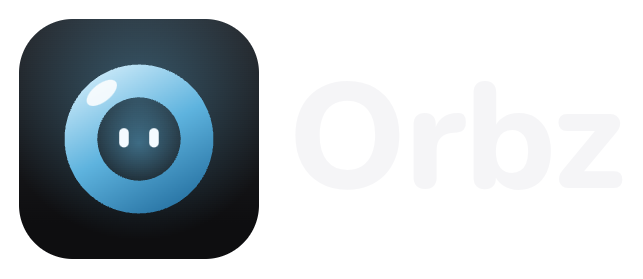
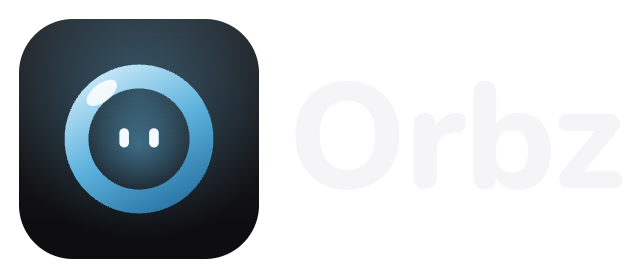
Thin the O in the Orbz mark

Changed region(s): [[0.1244, 0.3154, 0.311, 0.6882]]

diff --git a/packages/app/src/brand/mark.ts b/packages/app/src/brand/mark.ts
@@ -22,7 +22,7 @@ export type MarkOptions = {
 export function markSvg(o: MarkOptions = {}): string {
   const { eyes = true, ground = "none", mono = false, scale = 0.62 } = o;
   const R = 50 * scale; // the O's outer edge
-  const r = R * 0.56; // its hole: a thick ring, the weight of a bold O
+  const r = R * 0.68; // its hole: a ring a little lighter than a bold O (owner, 10-04: "make the o thinner :) not too thin")
   const cx = 50;
   const cy = 50;
   const ink = (c: string): string => (mono ? MARK.white : c);
@@ -31,7 +31,7 @@ export function markSvg(o: MarkOptions = {}): string {
       ? ""
       : `<rect width="100" height="100" ${ground === "card" ? 'rx="22.5"' : ""} fill="url(#g)"/><rect width="100" height="100" ${ground === "card" ? 'rx="22.5"' : ""} fill="url(#w)"/>`;
   const eyesSvg = eyes
-    ? [-1, 1].map((s) => `<rect x="${(cx + s * r * 0.36 - r * 0.115).toFixed(2)}" y="${(cy - r * 0.26).toFixed(2)}" width="${(r * 0.23).toFixed(2)}" height="${(r * 0.46).toFixed(2)}" rx="${(r * 0.115).toFixed(2)}" fill="${ink(MARK.eye)}"/>`).join("")
+    ? [-1, 1].map((s) => `<rect x="${(cx + s * R * 0.2 - R * 0.064).toFixed(2)}" y="${(cy - R * 0.145).toFixed(2)}" width="${(R * 0.129).toFixed(2)}" height="${(R * 0.258).toFixed(2)}" rx="${(R * 0.064).toFixed(2)}" fill="${ink(MARK.eye)}"/>`).join("") // sized by the O, not its hole
     : "";
   return [
     `<svg xmlns="http://www.w3.org/2000/svg" viewBox="0 0 100 100">`,
